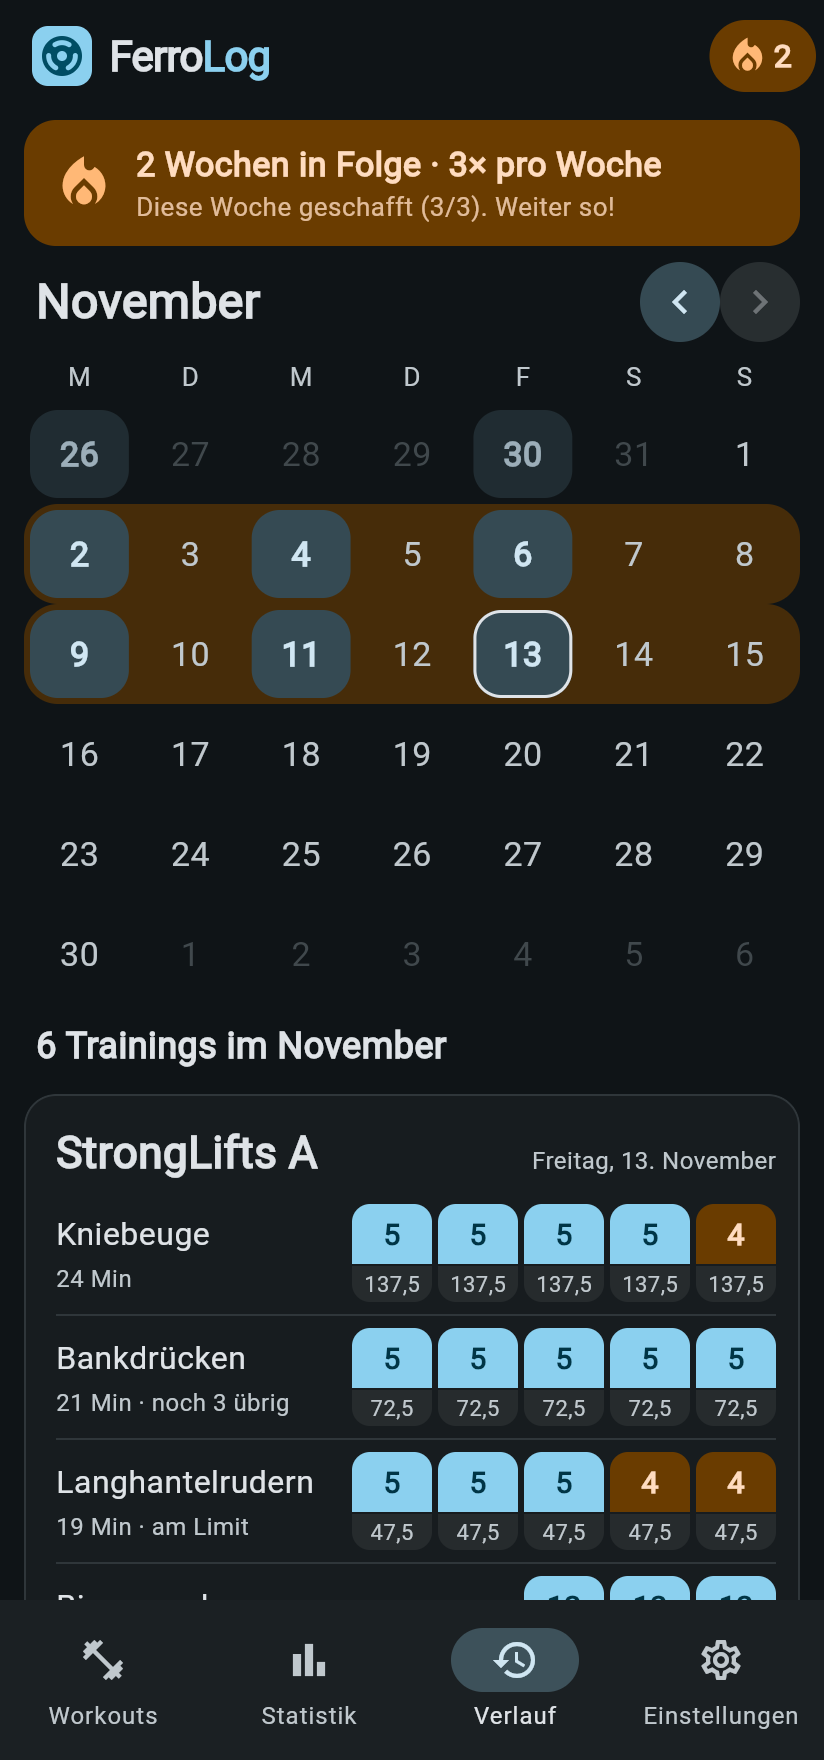
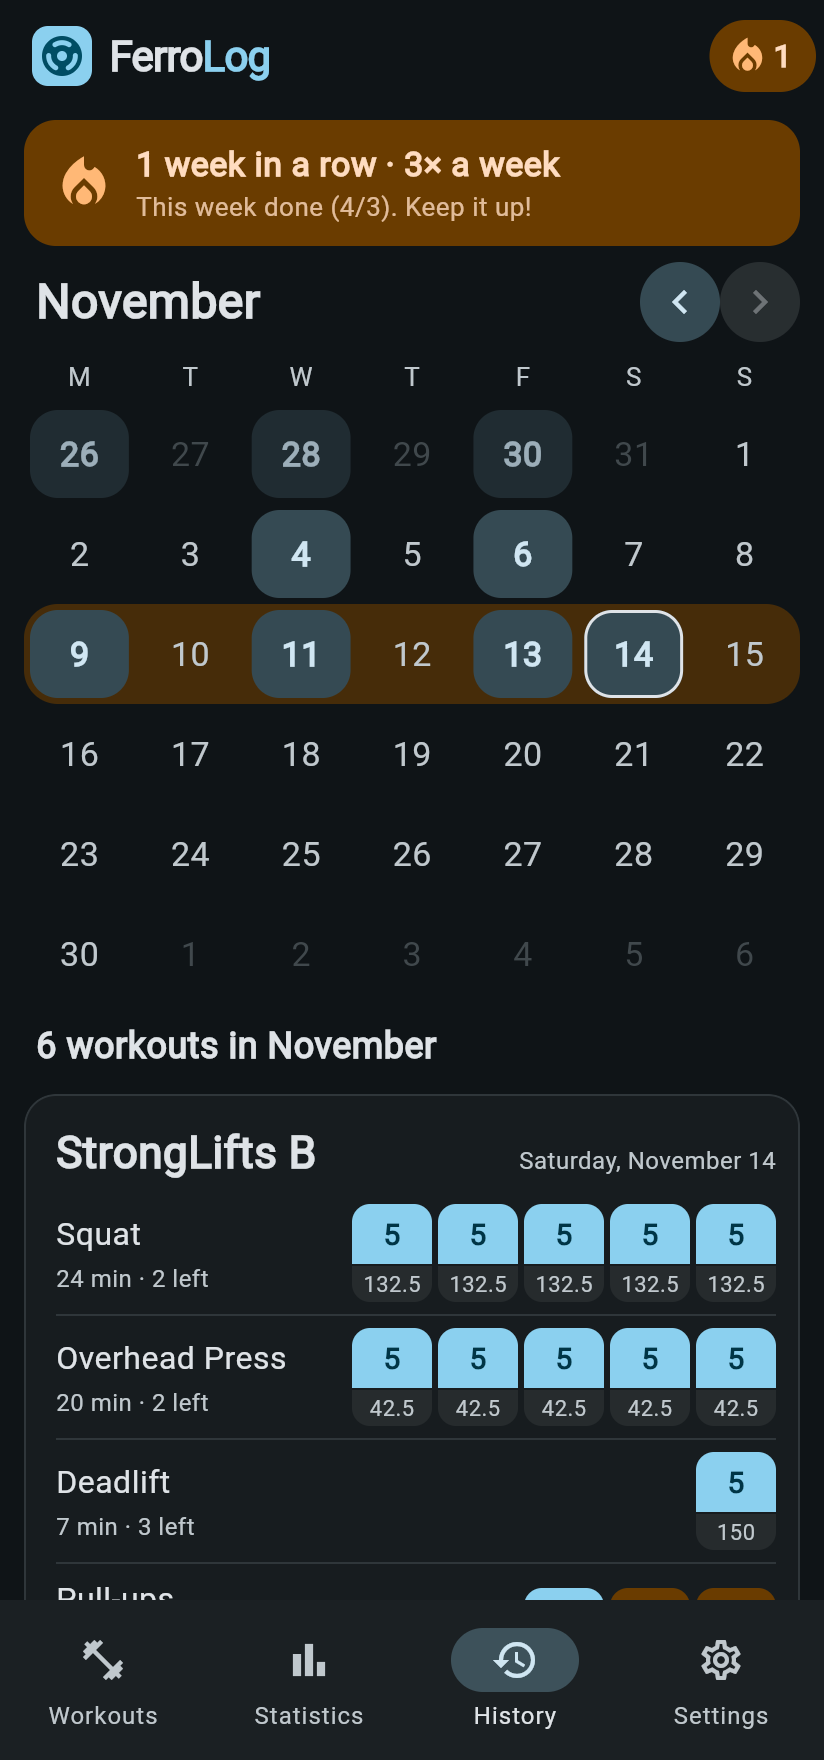
English README screenshots; the demo seeds in English with ?reset&lang=en
The demo server puts the app's language on English and the exercises
under their English catalogue names when reseeded with lang=en; tags
stay keyed in German like in the app. The five README screenshots are
taken from it.

diff --git a/tool/demo_server.py b/tool/demo_server.py
@@ -10,6 +10,10 @@ without muscles. The data lives only here,
 never in the app or a release build. Storage is per port, so other previews keep their data.
 
     python tool/demo_server.py [port]      then open http://localhost:8091 (?reset reseeds)
+
+?reset&lang=en reseeds in English: the app's language set to English and the exercises under their
+English names, as a user who set them up in English would have them (tags stay keyed in German, like
+in the app).
 """
 import datetime as dt
 import http.server
@@ -270,9 +274,36 @@ def demo_data():
     return {'app': 'ferrolog', 'version': 1, 'units': 'kg', 'workouts': workouts, 'sessions': sessions}
 
 
-def seed_script():
+# The demo's exercises under the names the app's English catalogue gives them (exerciseNamesEn).
+ENGLISH = {
+    'Kniebeuge': 'Squat', 'Bankdrücken': 'Bench Press', 'Langhantelrudern': 'Barbell Row',
+    'Bizepscurls': 'Biceps Curl', 'Hammercurls': 'Hammer Curl', 'Rumänisches Kreuzheben': 'Romanian Deadlift',
+    'Schulterdrücken': 'Overhead Press', 'Kreuzheben': 'Deadlift', 'Klimmzüge': 'Pull-ups',
+    'Wadenheben': 'Calf Raise', 'Laufen': 'Running', 'Atemübung': 'Breathing Drill',
+}
+
+
+def in_english(data):
+    """[data] with every exercise name (plans, trainings, swaps, plans before) in English."""
+    def name(n):
+        return ENGLISH.get(n, n)
+    for w in data['workouts']:
+        for e in w['exercises']:
+            e['name'] = name(e['name'])
+    for s in data['sessions']:
+        for e in s['exercises']:
+            e['name'] = name(e['name'])
+            if 'replaces' in e:
+                e['replaces'] = name(e['replaces'])
+        if 'planBefore' in s:
+            s['planBefore'] = {name(k): v for k, v in s['planBefore'].items()}
+    return data
+
+
+def seed_script(english=False):
     # shared_preferences on the web keeps each value JSON-encoded under "flutter.<key>".
-    value = json.dumps(json.dumps(demo_data(), ensure_ascii=False))
+    data = in_english(demo_data()) if english else demo_data()
+    value = json.dumps(json.dumps(data, ensure_ascii=False))
     return (
         '<script>(() => {\n'
         "  const reset = new URLSearchParams(location.search).has('reset');\n"
@@ -282,6 +313,7 @@ def seed_script():
         "  localStorage.setItem('flutter.unit', '\"kg\"');\n"
         # The demo has answered reps in reserve, so it asks for them too.
         "  localStorage.setItem('flutter.session.askRir', 'true');\n"
+        + ("  localStorage.setItem('flutter.language', '\"en\"');\n" if english else '') +
         "  if (reset) history.replaceState(null, '', location.pathname);\n"
         '})();</script>\n'
     )
@@ -294,7 +326,8 @@ class Handler(http.server.SimpleHTTPRequestHandler):
     def do_GET(self):
         if self.path.split('?')[0] not in ('/', '/index.html'):
             return super().do_GET()
-        html = (WEB / 'index.html').read_text().replace('<body>', '<body>\n' + seed_script(), 1).encode()
+        english = 'lang=en' in self.path
+        html = (WEB / 'index.html').read_text().replace('<body>', '<body>\n' + seed_script(english), 1).encode()
         self.send_response(200)
         self.send_header('Content-Type', 'text/html; charset=utf-8')
         self.send_header('Content-Length', str(len(html)))

diff --git a/CLAUDE.md b/CLAUDE.md
@@ -13,6 +13,6 @@ The demo data lives only in [tool/demo_server.py](tool/demo_server.py), never in
 
 - `demo_data()` generates 1.5 years of StrongLifts 5x5 up to a training this morning, so every period (30 days to all) has data and the insight card has a "today" fact. It includes accessories, an exercise added three weeks ago, cardio, holidays, sick weeks, missed reps, plateaus, deloads, moods, tags and body weight, plus curls in a rep range (8–12), a farmer's walk held for 30–45 s, last sets dropped back a step (they hold the weight) and accessories skipped for lack of time (no miss). For the home card "Dein Training": pull-ups left out entirely twice in the last four weeks (its top finding), no body weight for the last 40 days (the recap asks for it) and an own exercise "Atemübung" without muscles (the workout card asks for them). Rows lag behind the bench press on purpose, so the balance check has something to flag. The last two months have a timestamp per set (`doneAt`), older trainings don't, like real data from before timing was recorded. The newest training of each workout carries `planBefore`, so editing or deleting it recomputes the plan. Strength exercises of the last two months carry reps in reserve (`rir`: 0 after missed reps, else 1–4, some unanswered), and the seed switches asking for it on. Curls and Romanian deadlifts are in auto mode (`auto`), the rest on fixed steps.
 - The server injects a script into `index.html` that writes this data into `localStorage` (`flutter.ferrolog`, unit kg) on the first visit.
-- Open `http://localhost:8091/?reset` to reseed.
+- Open `http://localhost:8091/?reset` to reseed, `?reset&lang=en` to reseed in English (app language English, exercises under their English names; used for the README screenshots).
 - After editing the script, restart the `web-demo` server: it builds the data when a request comes in, but runs whatever code was loaded at start.
 - After a new web build, unregister the service worker and clear its caches in the browser, otherwise the old build shows.

diff --git a/docs/i18n.md b/docs/i18n.md
@@ -31,5 +31,5 @@ Die App gibt es nur auf Deutsch, die Texte stehen fest im Code. Englischsprachig
 4. **Erledigt** (2026-11-14): [test/i18n_test.dart](../test/i18n_test.dart) (gleiche Schlüssel in beiden ARB-Dateien, Zahlen, Datum, Tags, Katalog auf Englisch, Prompt, Startseite), Englisch im Demo-Server geprüft (Start, Statistik, Einstellungen, laufendes Training), README.
 
 Offen, bewusst nicht gemacht:
-- Die Demodaten (`tool/demo_server.py`) sind deutsch; auf Englisch zeigen sie deutsche Übungsnamen, weil das Nutzerdaten sind.
+- Die Demodaten (`tool/demo_server.py`) sind deutsch; `?reset&lang=en` seedet sie mit englischen Übungsnamen und App-Sprache Englisch (2026-11-14, für die Screenshots der README). Tags bleiben deutsch geschlüsselt wie in der App.
 - Das Beispiel in `planImport` (Export für die KI) bleibt deutsch, die Beschreibung drumherum ist englisch.

diff --git a/README.md b/README.md
@@ -24,7 +24,7 @@
   <img src="docs/screenshots/history.png" width="19%" alt="History with calendar and streak">
 </p>
 
-<p align="center"><sub>The app's UI is in German; screenshots show the built-in demo data.</sub></p>
+<p align="center"><sub>Screenshots in English from the built-in demo data; the app speaks German too.</sub></p>
 
 ---
 
@@ -104,7 +104,7 @@ flutter build web
 python tool/demo_server.py 8091
 ```
 
-Then open `http://localhost:8091`; `http://localhost:8091/?reset` reseeds the demo.
+Then open `http://localhost:8091`; `http://localhost:8091/?reset` reseeds the demo, `?reset&lang=en` reseeds it in English.
 
 ## Architecture
 
